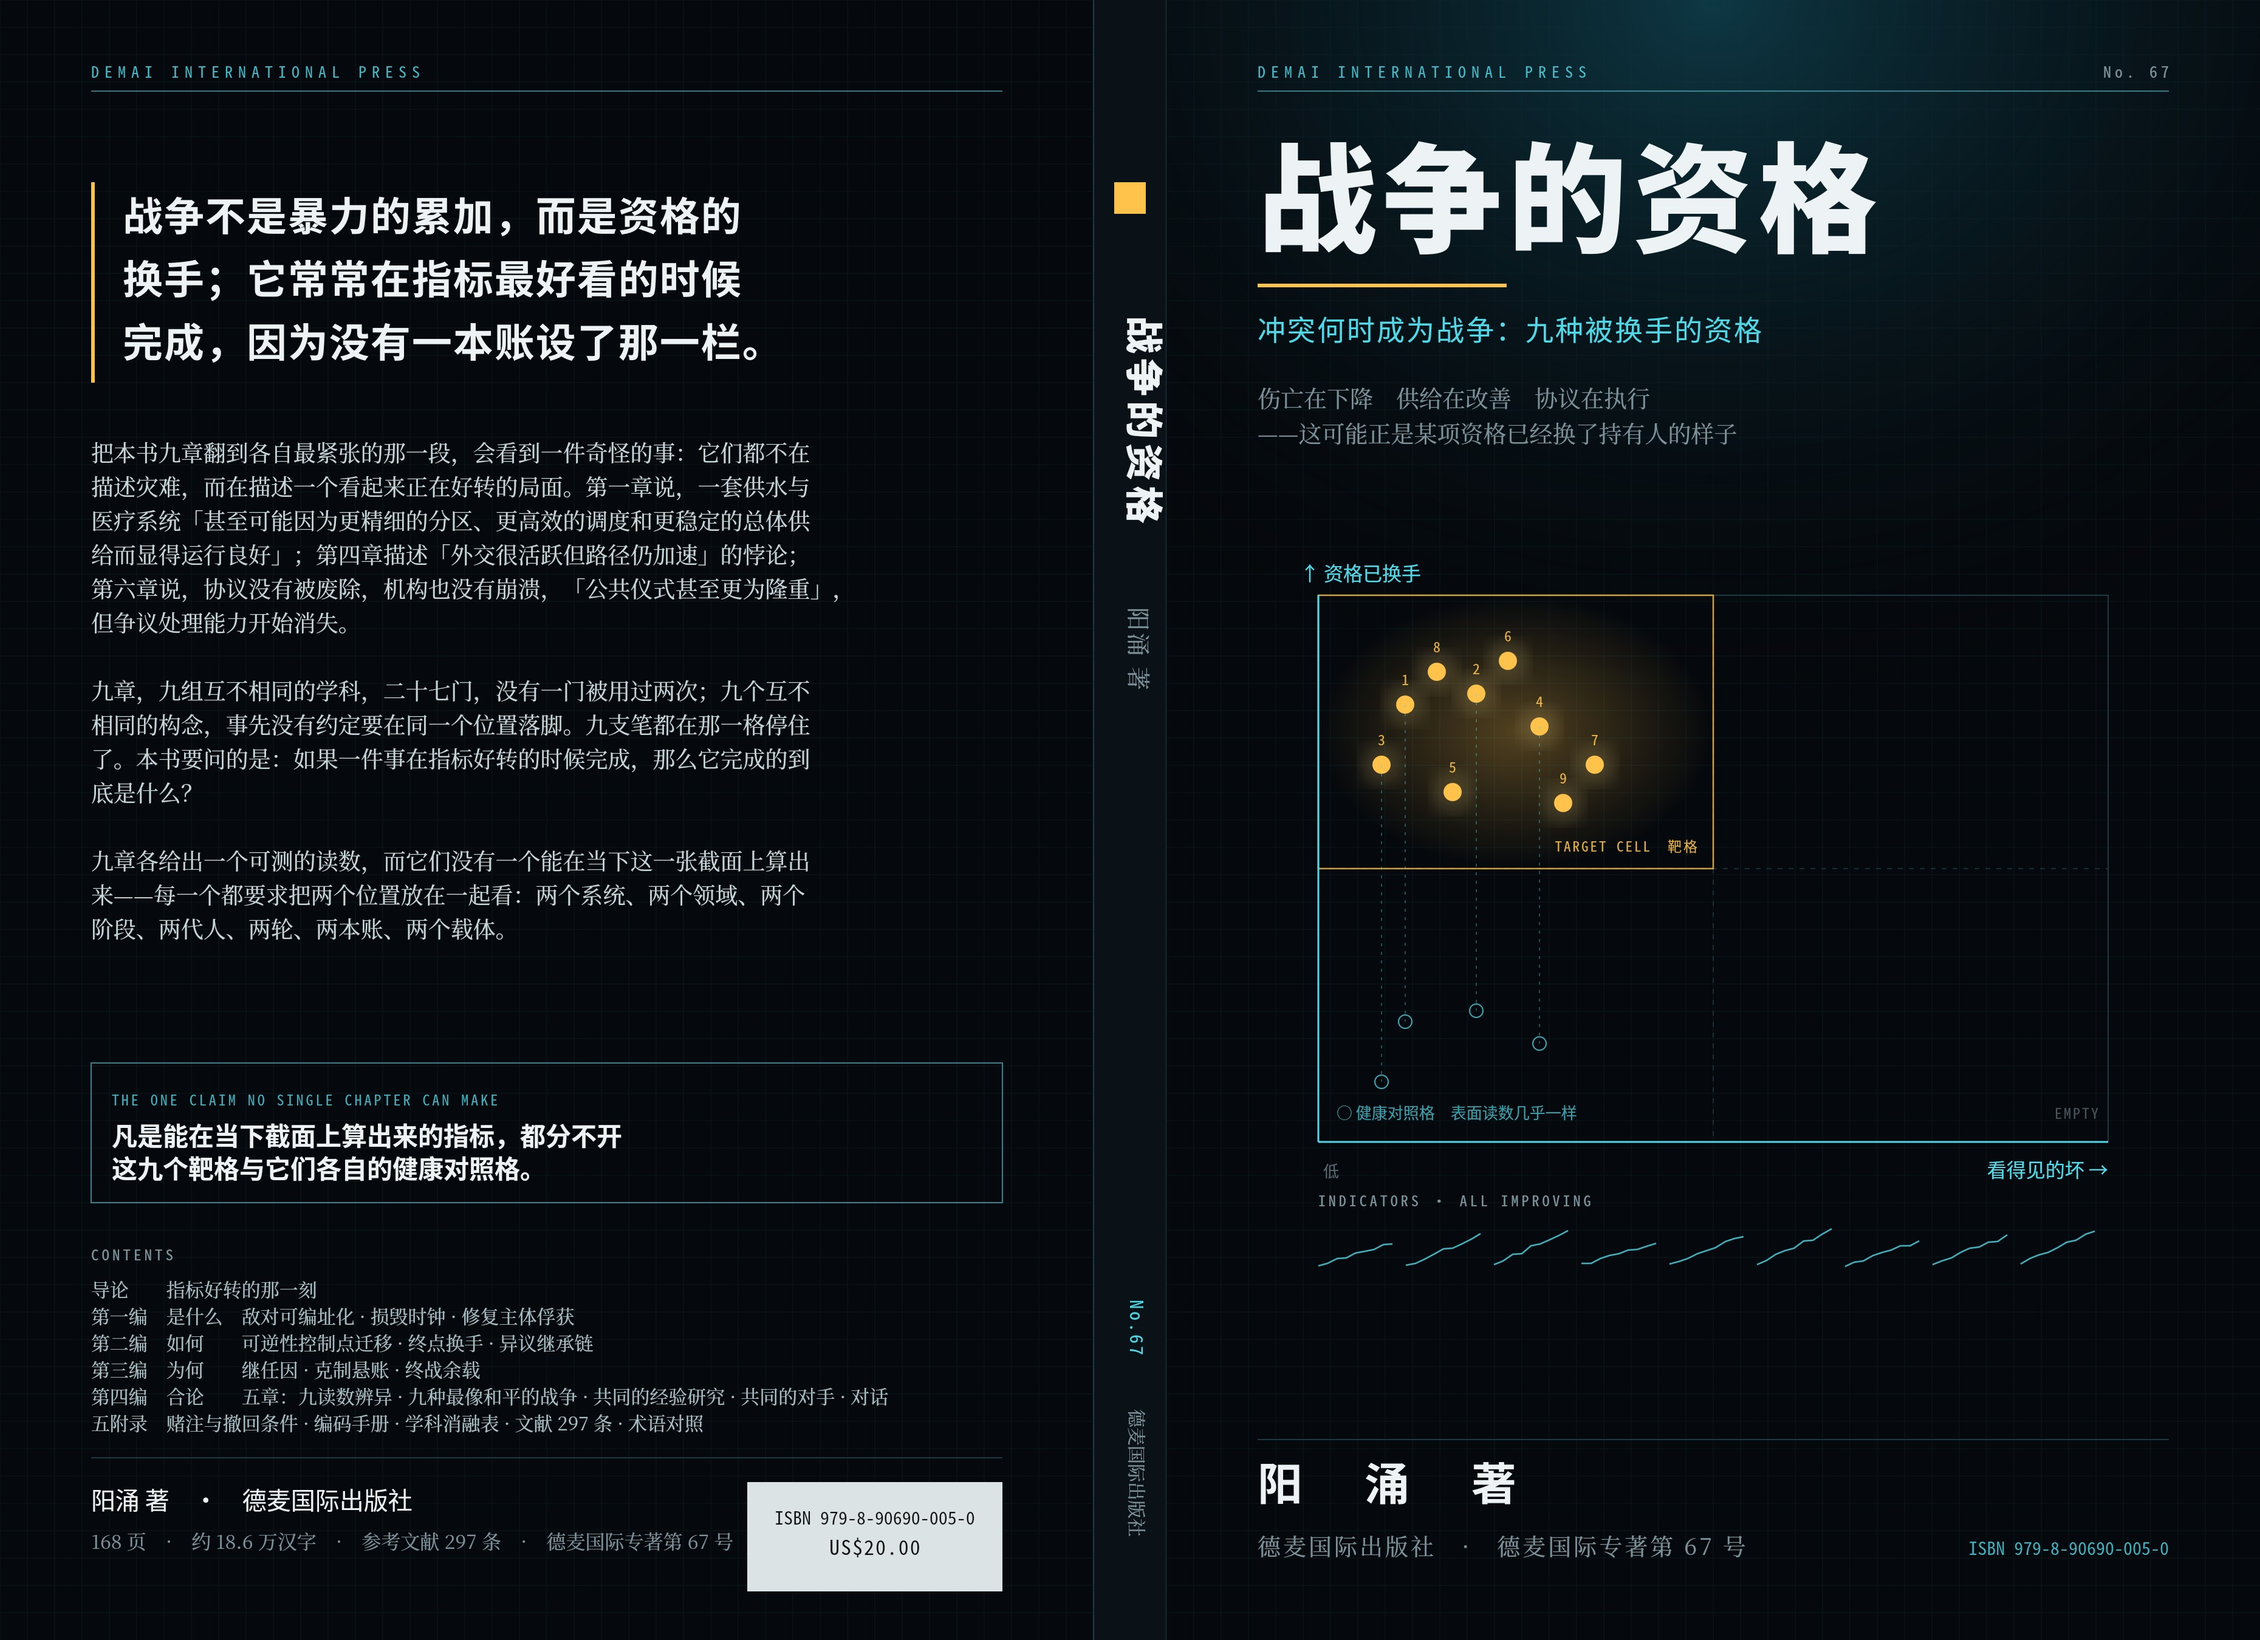
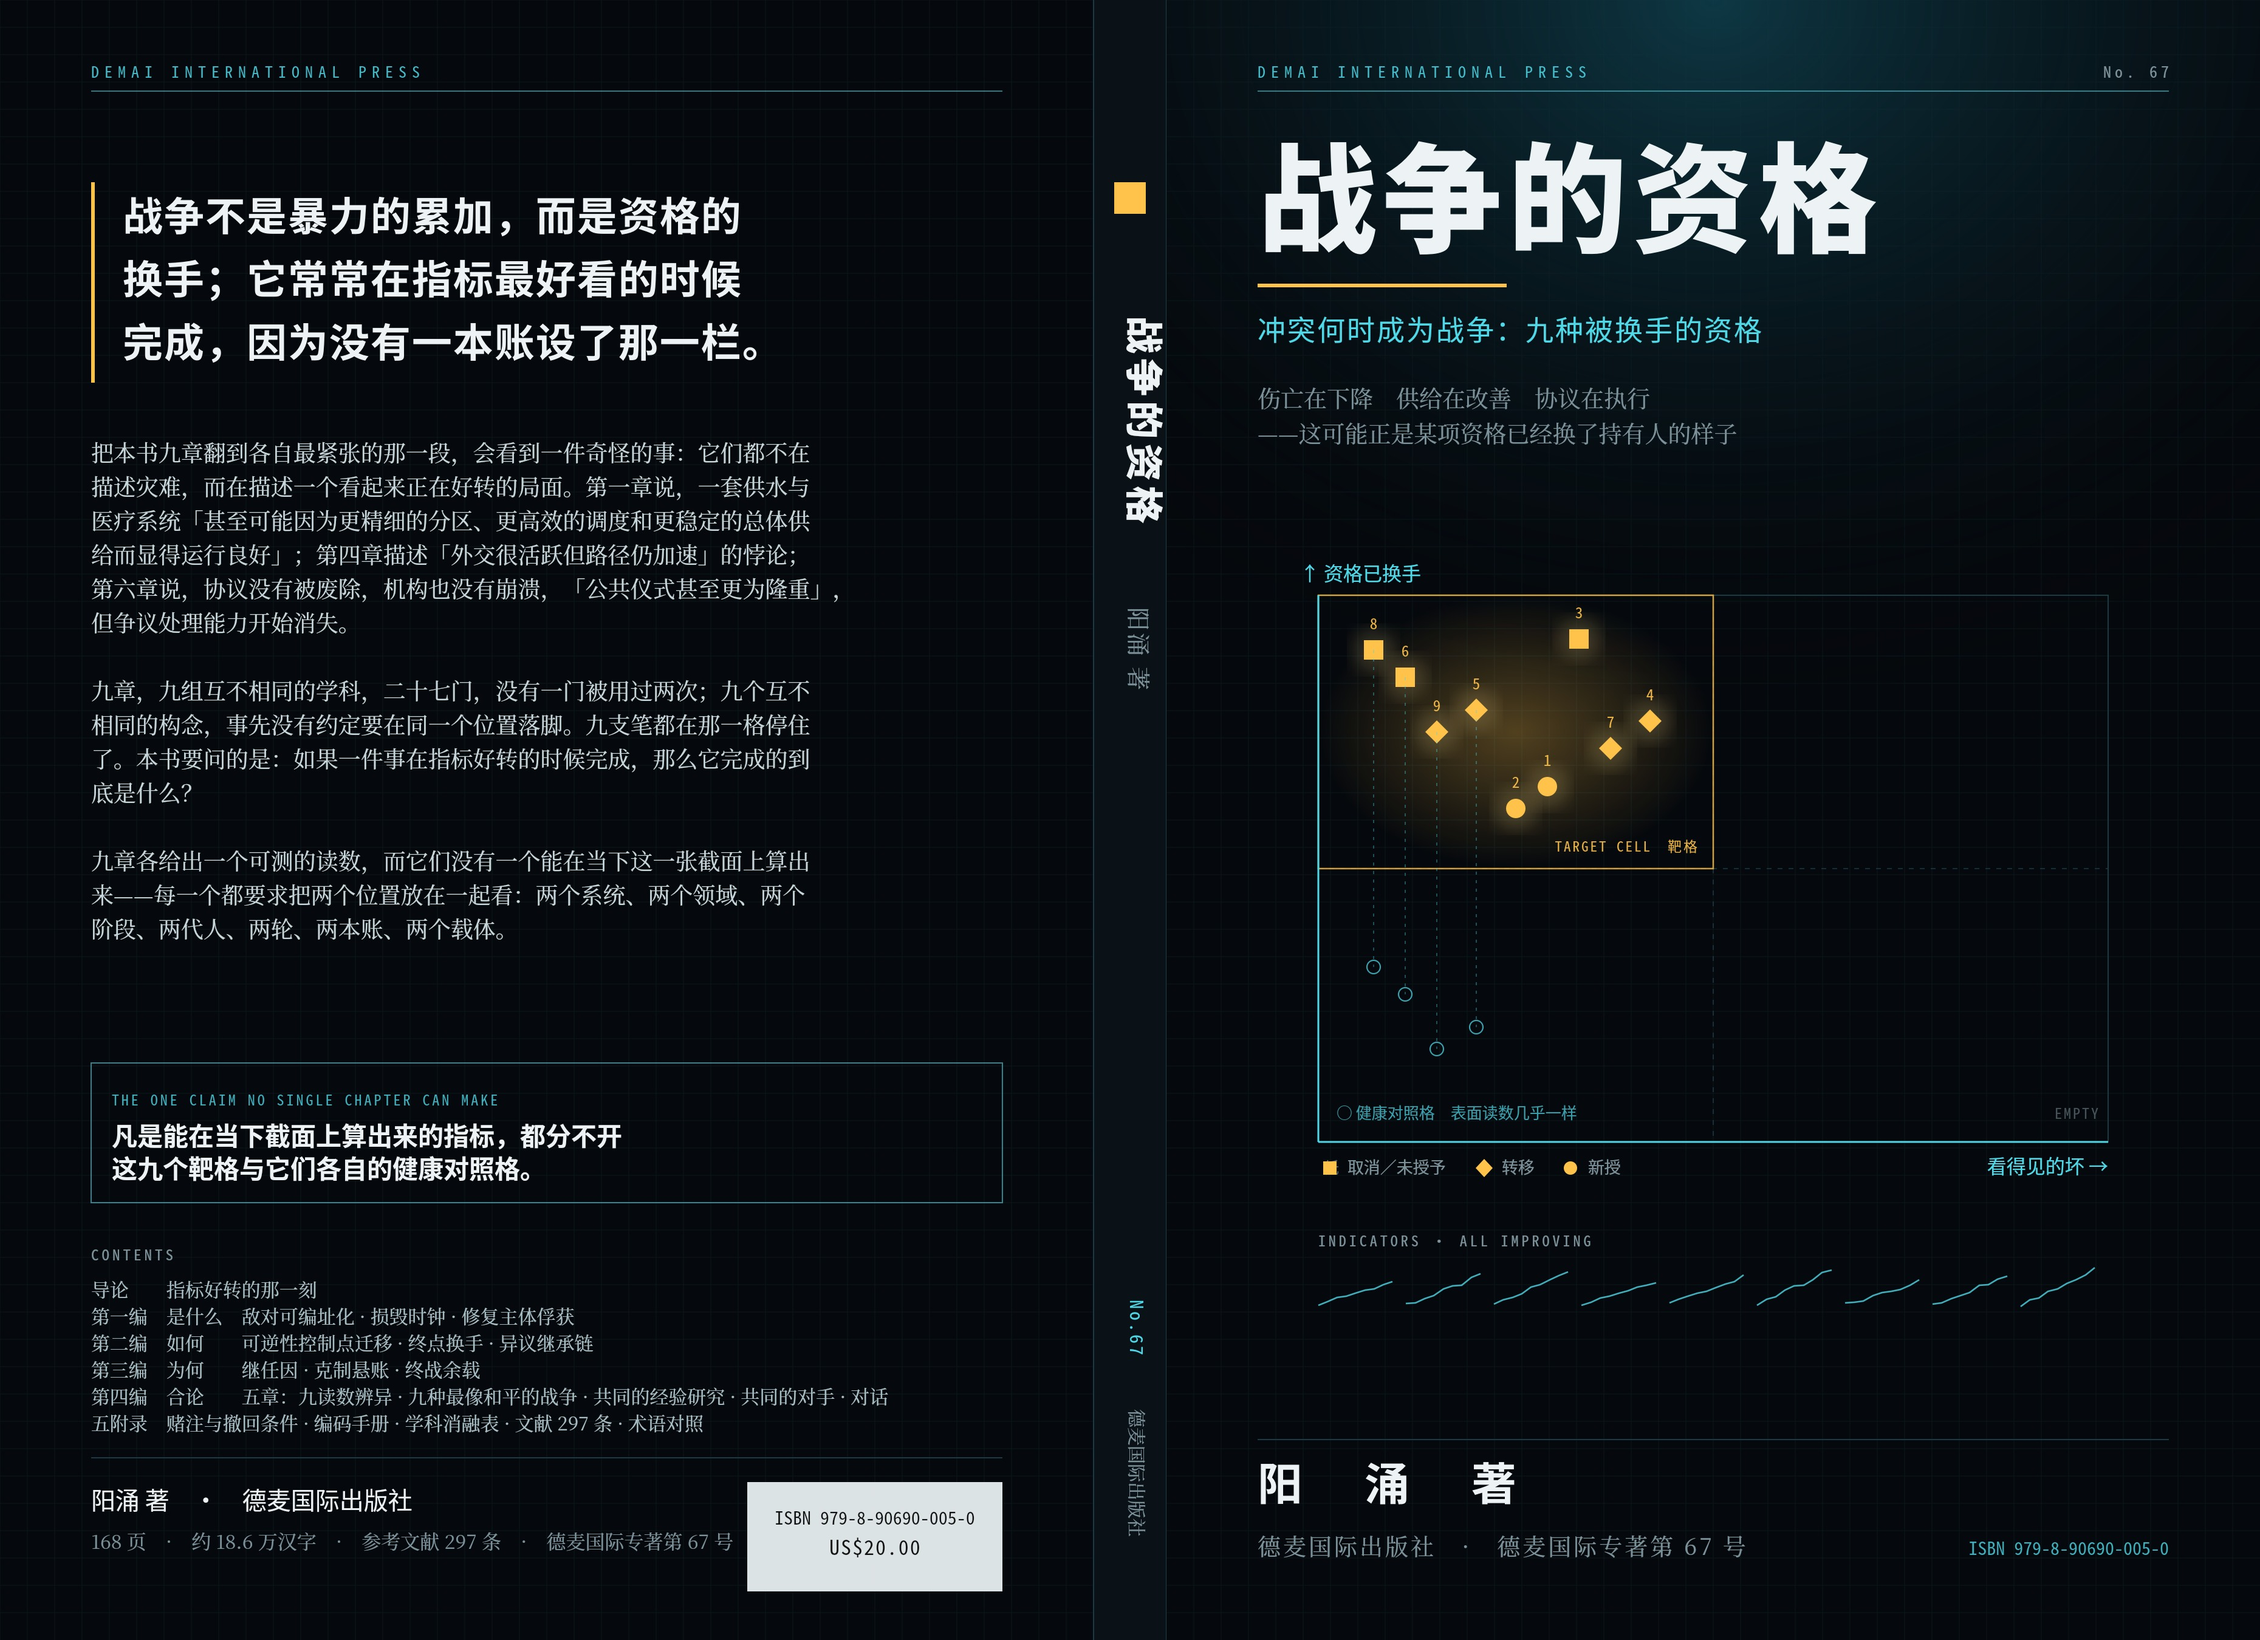
第67号封面改版：九点由随机布点改为按各章二维类型学定位，形状标出三种资格事故；落地页加读图说明

diff --git a/public/books/m/67/index.html b/public/books/m/67/index.html
@@ -209,6 +209,7 @@ footer{margin-top:80px;padding:34px 0;border-top:1px solid var(--line);font-fami
 <tr><td>八　克制悬账</td><td>悬账余额</td><td>高克制—低记账：双重悬账区</td><td>跨双方账本</td></tr>
 <tr><td>九　终战余载</td><td>余载转承率</td><td>高形式完成—低释解：余载转承</td><td>跨载体</td></tr>
 </tbody></table>
+<p class="note" style="margin-top:0">封面图即本表：横轴「看得见的坏」、纵轴「资格已换手」，九章九个点全部落在左上靶格；点的形状标出三种资格事故（■ 取消／未授予　◆ 转移　● 新授），点下方的空心圈是同一横坐标上的健康对照格。<b>点位由各章自己的二维类型学读出，是编者的读法，不是实测数据。</b></p>
 <p><b>九个读数，没有一个能在当下这一张截面上算出来。</b>每一个都要求把两个位置放在一起看。由此得到全书唯一一条任何单章都推不出的判断——</p>
 <blockquote class="thesis"><p>凡是能在当下截面上算出来的指标，都分不开这九个靶格与它们各自的健康对照格。</p></blockquote>
 <p>它可以被打掉，打法很明确：找出任何一个截面量，能把上表任一行的靶格与对照格分开，此推论即失败。本书把它写在导论而不是藏在结尾，正是为了让它承担被打掉的风险。</p>
